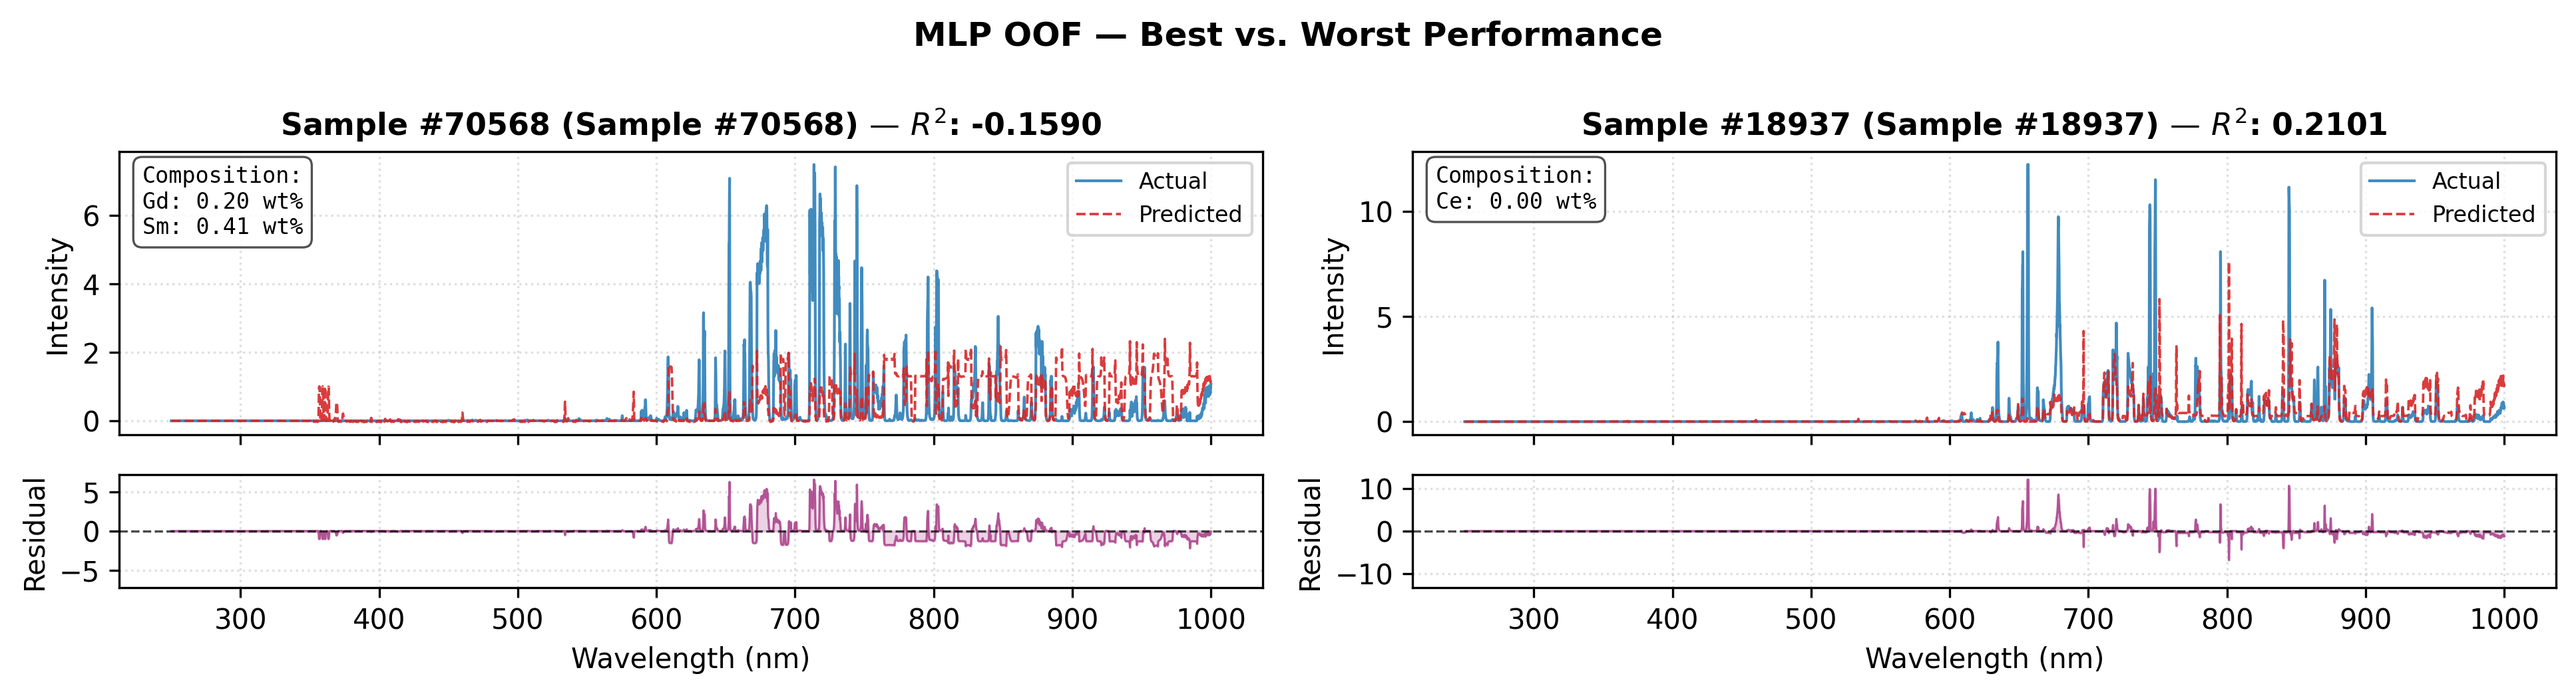
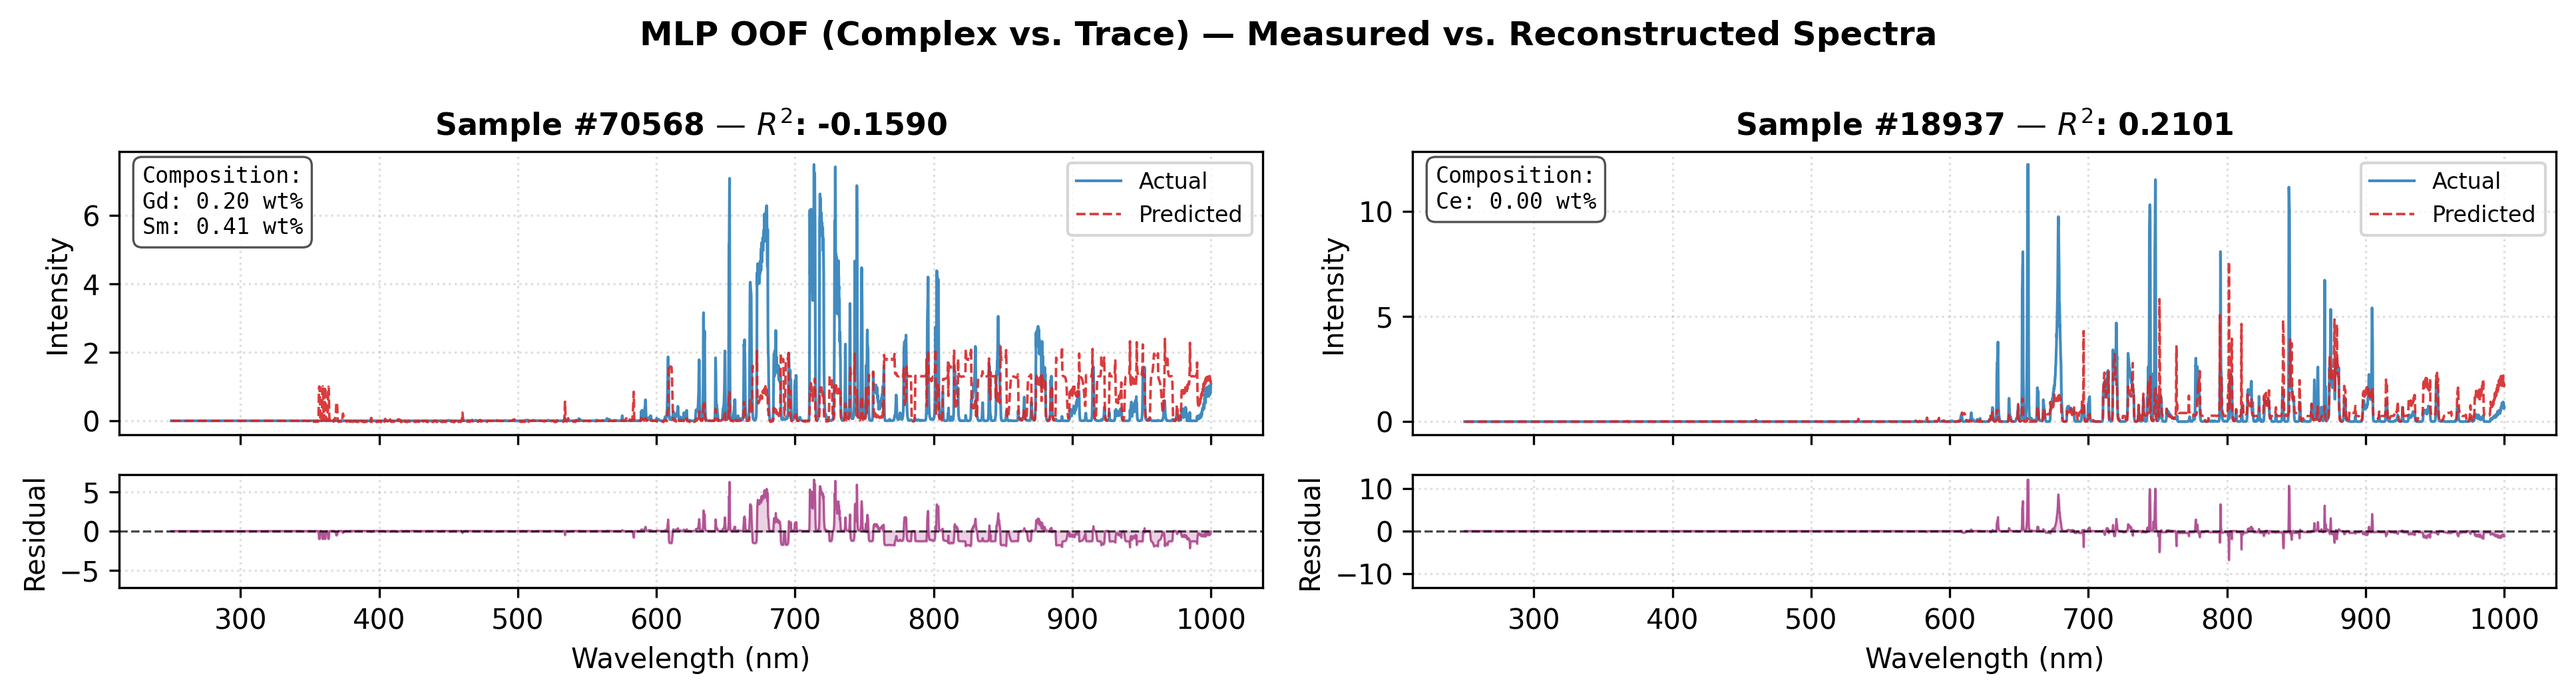
better mlp plot for poster

Changed region(s): [[0.2481, 0.0307, 0.7752, 0.092], [0.093, 0.1533, 0.4341, 0.2146], [0.6202, 0.1533, 0.9302, 0.2146]]

diff --git a/LIBS/conc_to_spec/MLP/h5_MLP_002.py b/LIBS/conc_to_spec/MLP/h5_MLP_002.py
@@ -382,8 +382,9 @@ def plot_sample_spectra(
         ss_tot = np.sum((y_true[idx] - np.mean(y_true[idx])) ** 2) + 1e-8
         r2 = 1.0 - (ss_res / ss_tot)
 
-        tag_label = f"Sample #{idx}"
-        ax_main.set_title(f"{tag_label} (Sample #{idx}) — $R^2$: {r2:.4f}", fontsize=11, fontweight="bold")
+        # tag_label = f"Sample #{idx}"
+        # ax_main.set_title(f"{tag_label} (Sample #{idx}) — $R^2$: {r2:.4f}", fontsize=11, fontweight="bold")
+        ax_main.set_title(f"Sample #{idx} — $R^2$: {r2:.4f}", fontsize=11, fontweight="bold")
         ax_main.set_ylabel("Intensity", fontsize=10)
         ax_main.tick_params(axis="both", labelsize=10)  # Increased tick label size
 
@@ -433,7 +434,7 @@ def plot_sample_spectra(
         if max_abs > 0:
             ax_res.set_ylim(-max_abs, max_abs)
 
-    plt.suptitle(f"{title_tag} — Best vs. Worst Performance", fontsize=12, fontweight="bold", y=0.98)
+    plt.suptitle(f"{title_tag} — Measured vs. Reconstructed Spectra", fontsize=12, fontweight="bold", y=0.98)
     plt.tight_layout()
 
     if save_path:
@@ -487,7 +488,7 @@ def just_plotting(sample_indices: list[int] | None = None):
         sample_indices=sample_indices,
         X=X_cv_exp,
         feature_names=feature_names,
-        title_tag="MLP OOF",
+        title_tag="MLP OOF (Complex vs. Trace)",
         save_path=OUTPUT_SAVE_PATH
     )    
 def _chunk_stats(y_true, y_pred, cols, chunk=2048):

diff --git a/LIBS/PLS_checks/plots/poster_plots/generate_poster_4x3_parity.py b/LIBS/PLS_checks/plots/poster_plots/generate_poster_4x3_parity.py
@@ -54,11 +54,11 @@ HOST_ELEMENTS = {'Li', 'K', 'Cl'}
 TARGET_DOPANTS = ['Ce', 'Gd', 'Sm', 'U']  # The 4 rows in our 4x3 poster grid
 
 # Model Checkpoint Prefixes
-P3VAE_MODEL_PREFIX = "/lustre/home/leejv2/git_repos/jvlee_LIBS_ML/LIBS/p3VAE/trained_models/best_p3vae6_model_20261024_162246"
-CNN_MODEL_PREFIX = "/lustre/home/leejv2/git_repos/jvlee_LIBS_ML/LIBS/spec_to_conc/CNN_1D/trained_models/cnn1d_20261024_180000"
+P3VAE_MODEL_PREFIX = "/lustre/home/leejv2/git_repos/jvlee_LIBS_ML/LIBS/p3VAE/trained_models/best_p3vae6_model_20261024_211302"
+CNN_MODEL_PREFIX = "/lustre/home/leejv2/git_repos/jvlee_LIBS_ML/LIBS/spec_to_conc/CNN_1D/trained_models/cnn1d_20261025_003016"
 
 PLS_COMPONENTS = 15
-EVAL_MODE = "lockbox"  # Options: 'lockbox' (Ensemble Test Set) or 'oof' (Out-Of-Fold Validation)
+EVAL_MODE = "oof"  # Options: 'lockbox' (Ensemble Test Set) or 'oof' (Out-Of-Fold Validation)
 
 TIMESTAMP = datetime.now().strftime("%Y%m%d_%H%M%S")
 OUTPUT_DIR.mkdir(parents=True, exist_ok=True)
